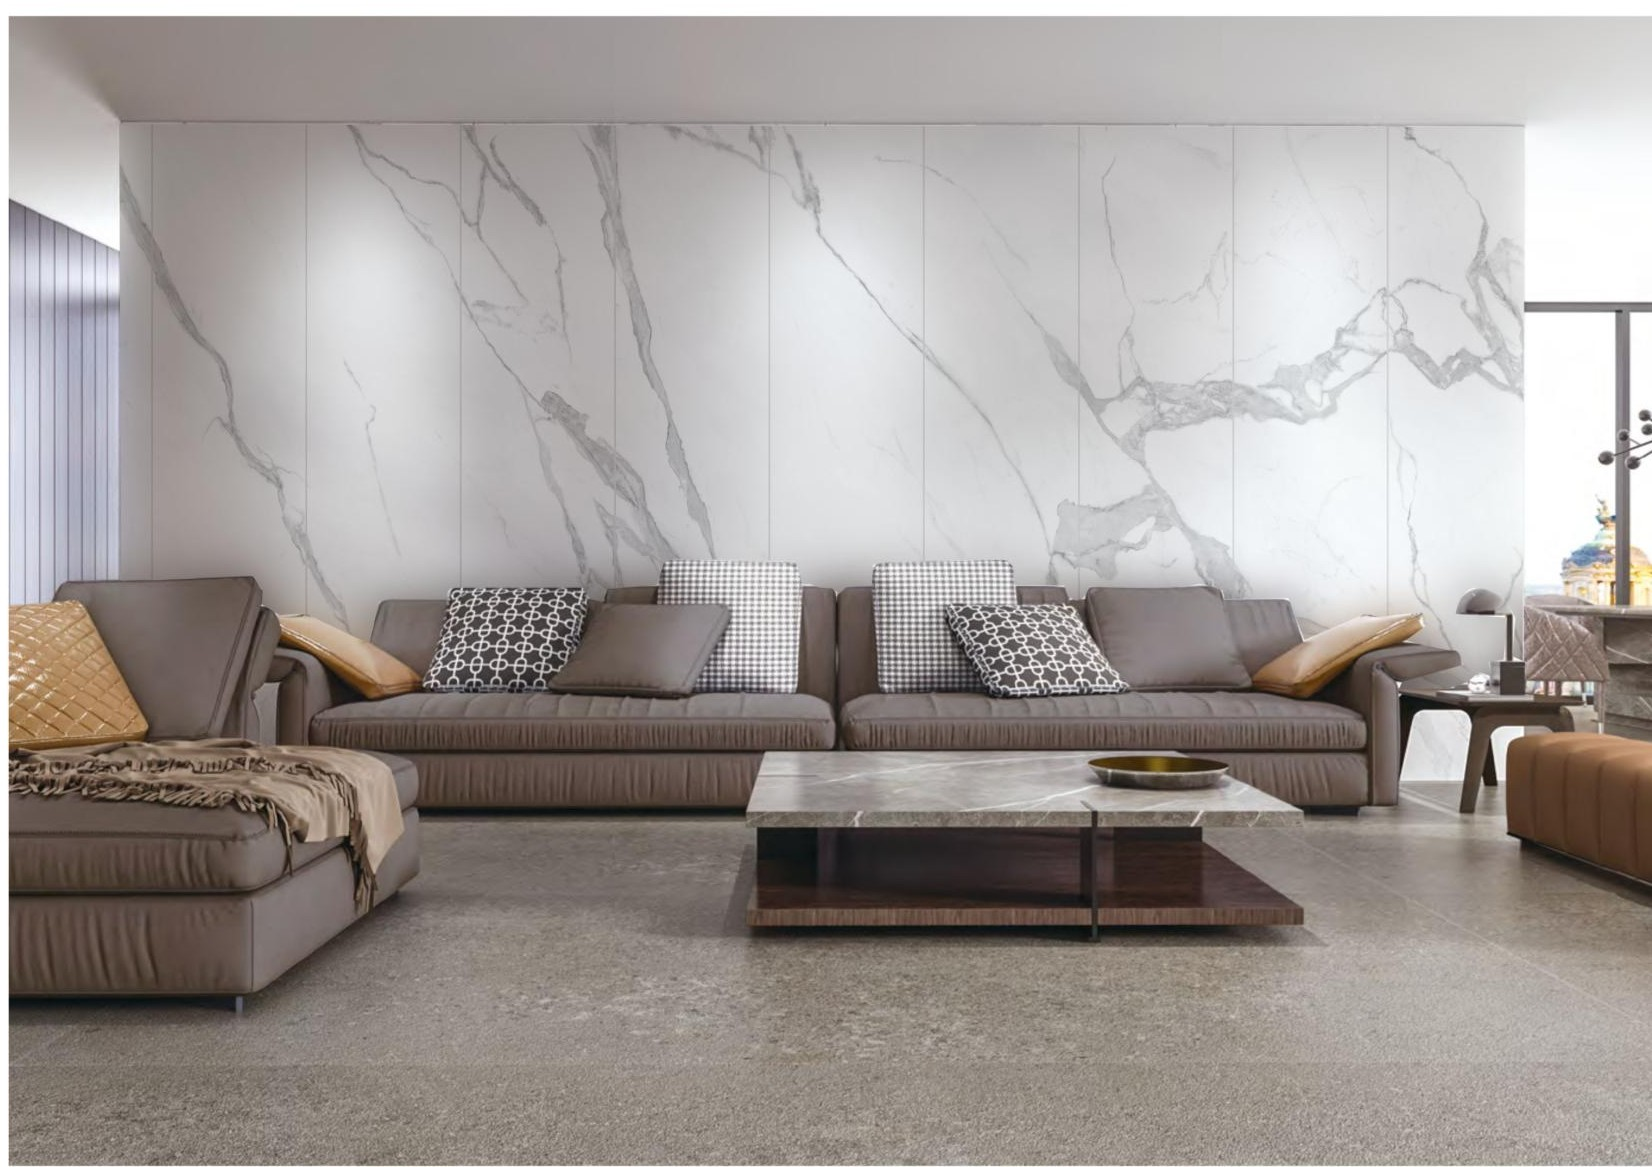
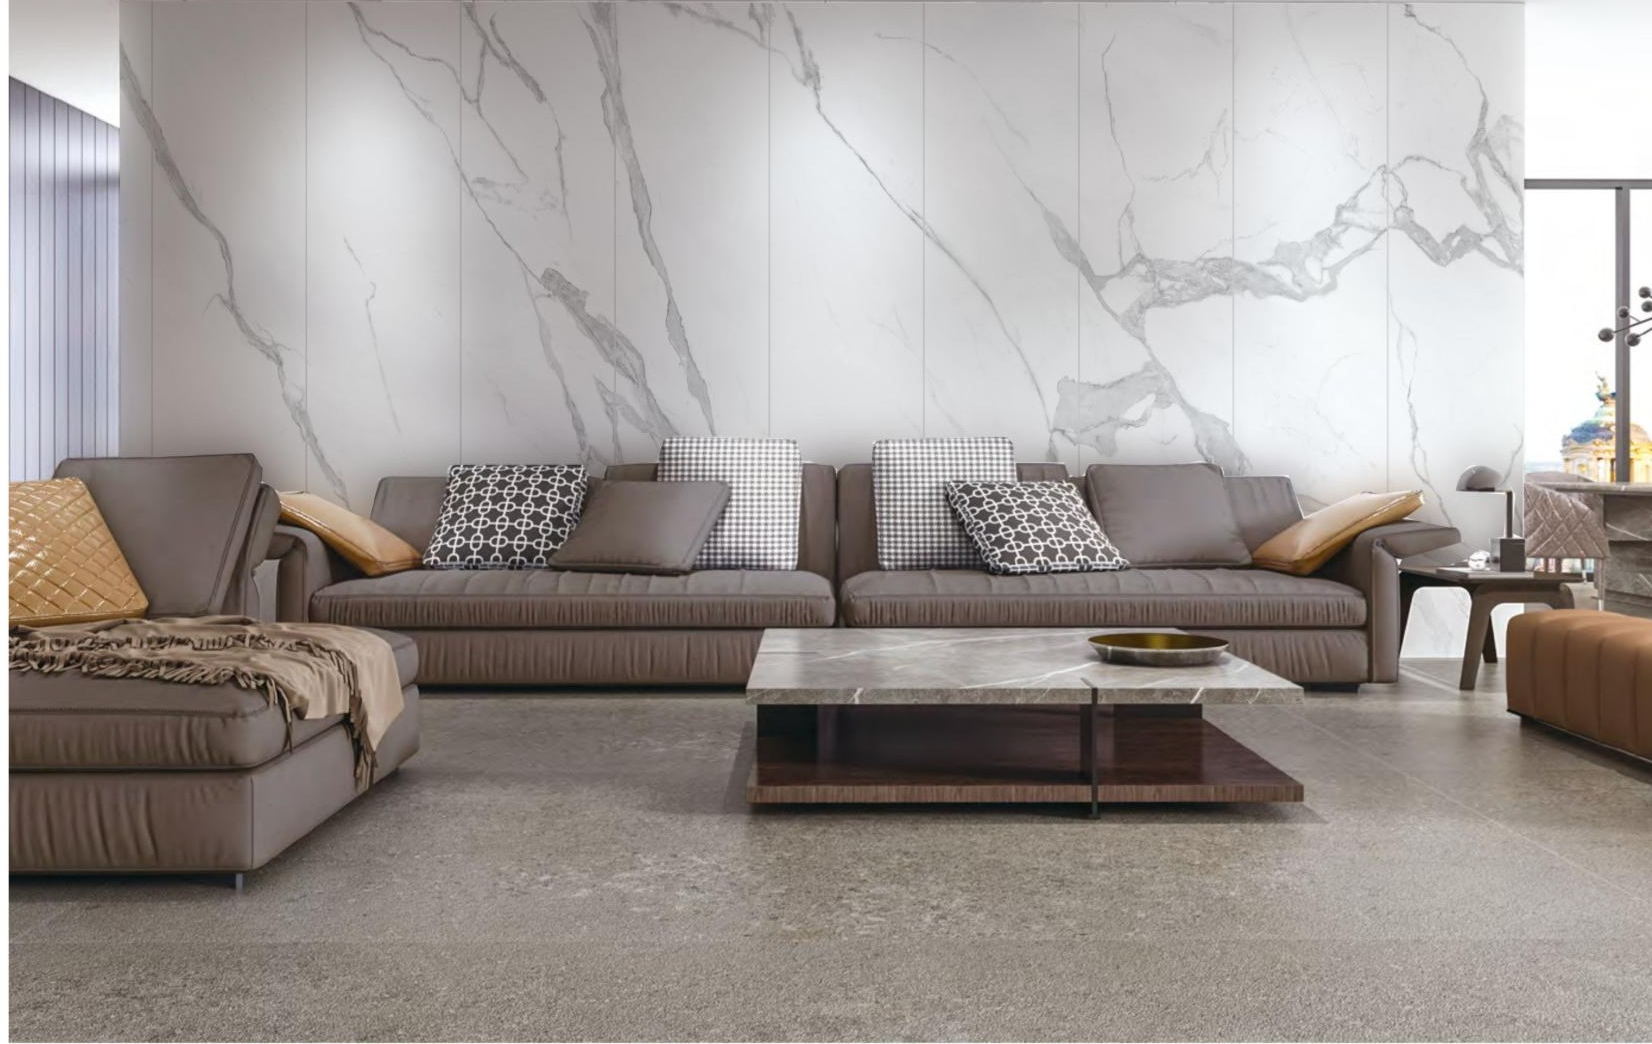
Add files via upload

diff --git a/products.html b/products.html
@@ -92,7 +92,7 @@
   </section>
 
   <section style="max-width:1340px;margin:0 auto;padding:clamp(44px,6vw,72px) clamp(18px,4vw,32px) clamp(72px,10vw,120px)">
-    <div class="hairgrid" style="display:grid;grid-template-columns:repeat(auto-fit,minmax(380px,1fr));gap:1px">
+    <div class="hairgrid prodgrid" style="display:grid;grid-template-columns:repeat(auto-fit,minmax(380px,1fr));gap:1px">
         <a href="product-film.html" style="background:#fff;display:block">
           <img src="img-prod-film.jpg" alt="인테리어 필름" loading="lazy" style="width:100%;aspect-ratio:4/3;object-fit:cover" />
           <div style="padding:26px 28px 30px">

diff --git a/site.css b/site.css
@@ -12,6 +12,7 @@
 
 /* 셀 경계선 — 빈 칸에 배경이 비치지 않도록 각 셀에 직접 그립니다 */
 .hairgrid > * { box-shadow: 0 0 0 1px rgba(20,22,26,0.12); }
+.prodgrid > a > img { aspect-ratio: auto !important; height: clamp(220px, 23vw, 320px) !important; display: block; }
 .hairgrid-dark > * { box-shadow: 0 0 0 1px rgba(255,255,255,0.12); }
 
 
